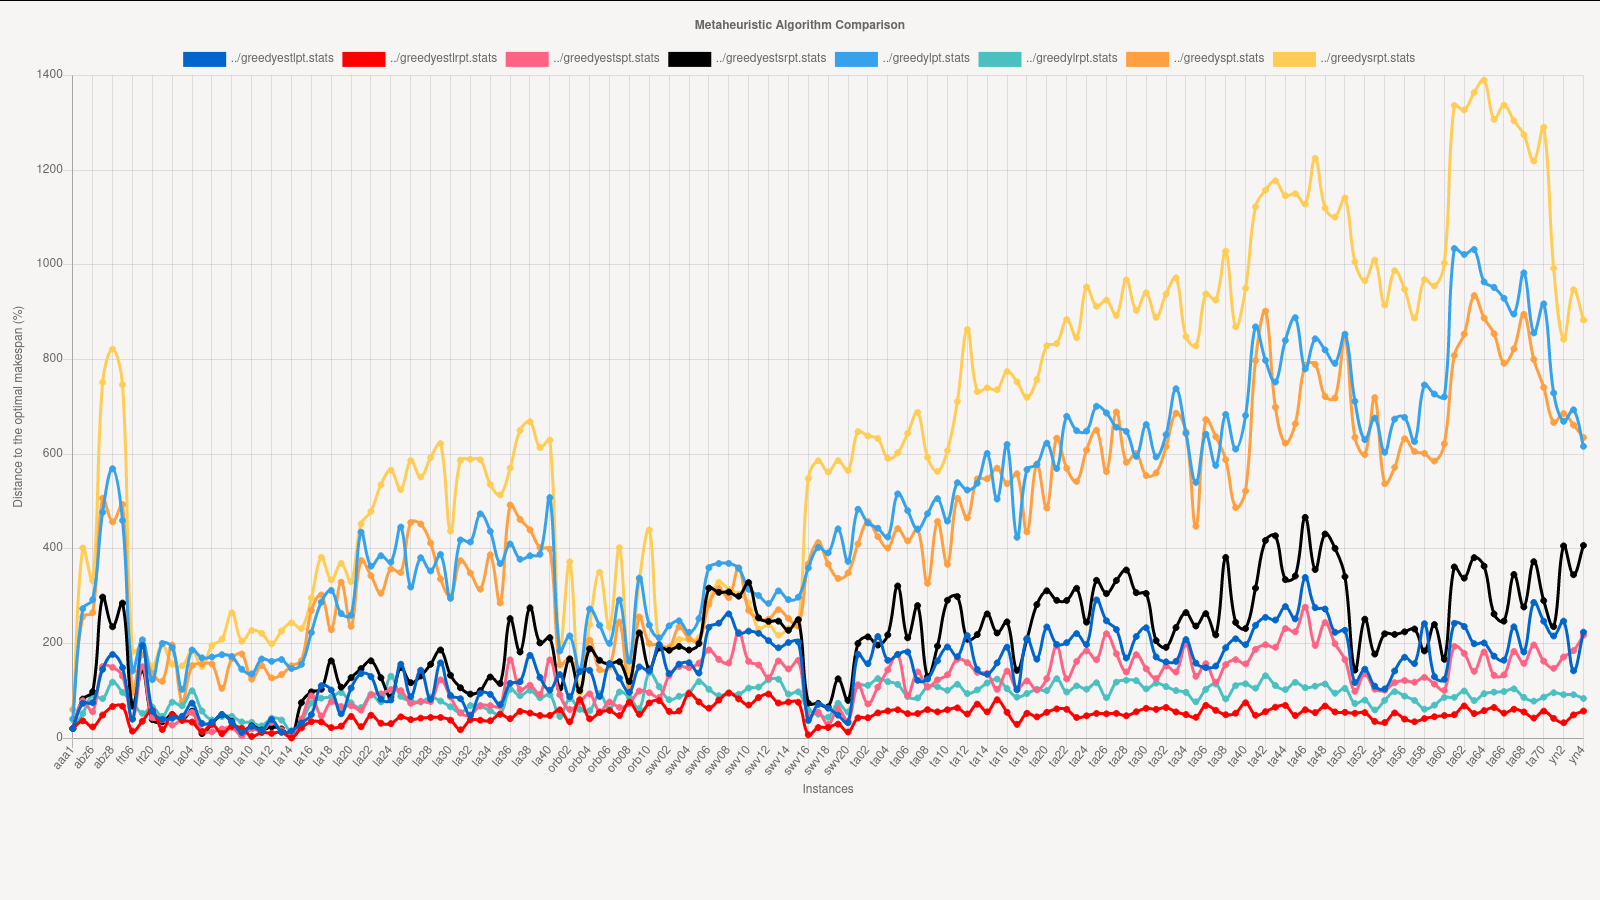
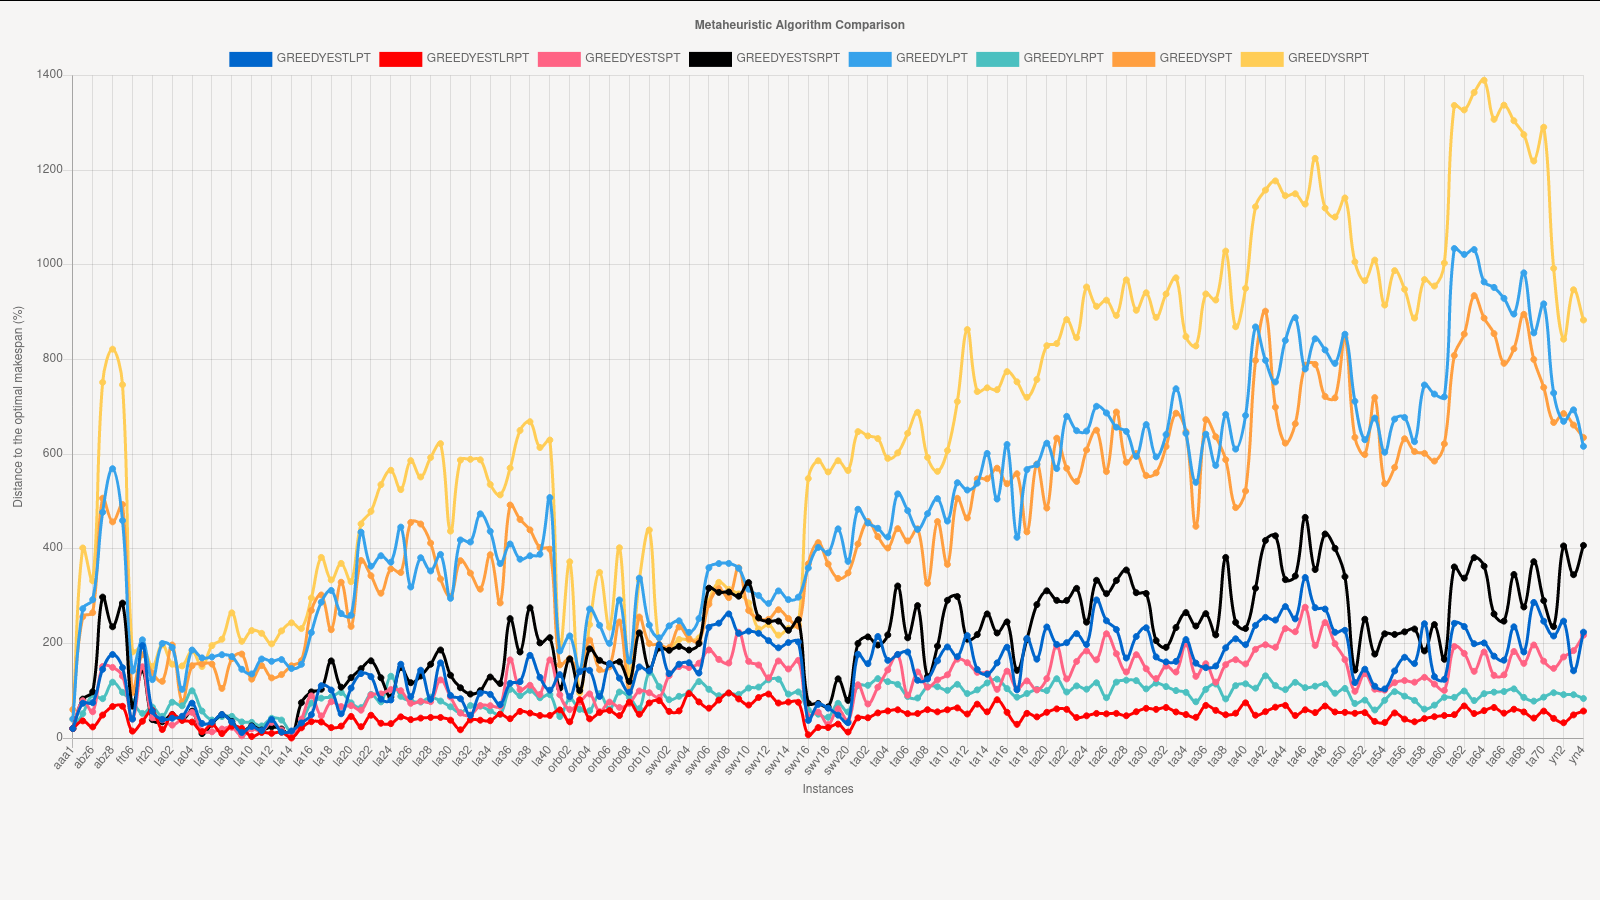
updated the generation of the html/js graph

Changed region(s): [[0.0938, 0.0311, 0.5938, 0.0933], [0.625, 0.0311, 0.875, 0.0933]]

diff --git a/stats/graph/index.html b/stats/graph/index.html
@@ -26,7 +26,7 @@ data:	{
 labels: ['aaa1', 'abz5', 'abz6', 'abz7', 'abz8', 'abz9', 'ft06', 'ft10', 'ft20', 'la01', 'la02', 'la03', 'la04', 'la05', 'la06', 'la07', 'la08', 'la09', 'la10', 'la11', 'la12', 'la13', 'la14', 'la15', 'la16', 'la17', 'la18', 'la19', 'la20', 'la21', 'la22', 'la23', 'la24', 'la25', 'la26', 'la27', 'la28', 'la29', 'la30', 'la31', 'la32', 'la33', 'la34', 'la35', 'la36', 'la37', 'la38', 'la39', 'la40', 'orb01', 'orb02', 'orb03', 'orb04', 'orb05', 'orb06', 'orb07', 'orb08', 'orb09', 'orb10', 'swv01', 'swv02', 'swv03', 'swv04', 'swv05', 'swv06', 'swv07', 'swv08', 'swv09', 'swv10', 'swv11', 'swv12', 'swv13', 'swv14', 'swv15', 'swv16', 'swv17', 'swv18', 'swv19', 'swv20', 'ta01', 'ta02', 'ta03', 'ta04', 'ta05', 'ta06', 'ta07', 'ta08', 'ta09', 'ta10', 'ta11', 'ta12', 'ta13', 'ta14', 'ta15', 'ta16', 'ta17', 'ta18', 'ta19', 'ta20', 'ta21', 'ta22', 'ta23', 'ta24', 'ta25', 'ta26', 'ta27', 'ta28', 'ta29', 'ta30', 'ta31', 'ta32', 'ta33', 'ta34', 'ta35', 'ta36', 'ta37', 'ta38', 'ta39', 'ta40', 'ta41', 'ta42', 'ta43', 'ta44', 'ta45', 'ta46', 'ta47', 'ta48', 'ta49', 'ta50', 'ta51', 'ta52', 'ta53', 'ta54', 'ta55', 'ta56', 'ta57', 'ta58', 'ta59', 'ta60', 'ta61', 'ta62', 'ta63', 'ta64', 'ta65', 'ta66', 'ta67', 'ta68', 'ta69', 'ta70', 'yn1', 'yn2', 'yn3', 'yn4'],
 datasets: [
 {
-label: '../greedyestlpt.stats',
+label: 'GREEDYESTLPT',
 backgroundColor: window.chartColors.beautiblue,
 borderColor: window.chartColors.beautiblue,
 data: [
@@ -34,7 +34,7 @@ data: [
 fill: false,
 }
 , {
-label: '../greedyestlrpt.stats',
+label: 'GREEDYESTLRPT',
 backgroundColor: window.chartColors.red,
 borderColor: window.chartColors.red,
 data: [
@@ -42,7 +42,7 @@ data: [
 fill: false,
 }
 , {
-label: '../greedyestspt.stats',
+label: 'GREEDYESTSPT',
 backgroundColor: window.chartColors.pink,
 borderColor: window.chartColors.pink,
 data: [
@@ -50,7 +50,7 @@ data: [
 fill: false,
 }
 , {
-label: '../greedyestsrpt.stats',
+label: 'GREEDYESTSRPT',
 backgroundColor: window.chartColors.black,
 borderColor: window.chartColors.black,
 data: [
@@ -58,7 +58,7 @@ data: [
 fill: false,
 }
 , {
-label: '../greedylpt.stats',
+label: 'GREEDYLPT',
 backgroundColor: window.chartColors.blue,
 borderColor: window.chartColors.blue,
 data: [
@@ -66,7 +66,7 @@ data: [
 fill: false,
 }
 , {
-label: '../greedylrpt.stats',
+label: 'GREEDYLRPT',
 backgroundColor: window.chartColors.green,
 borderColor: window.chartColors.green,
 data: [
@@ -74,7 +74,7 @@ data: [
 fill: false,
 }
 , {
-label: '../greedyspt.stats',
+label: 'GREEDYSPT',
 backgroundColor: window.chartColors.orange,
 borderColor: window.chartColors.orange,
 data: [
@@ -82,7 +82,7 @@ data: [
 fill: false,
 }
 , {
-label: '../greedysrpt.stats',
+label: 'GREEDYSRPT',
 backgroundColor: window.chartColors.yellow,
 borderColor: window.chartColors.yellow,
 data: [
